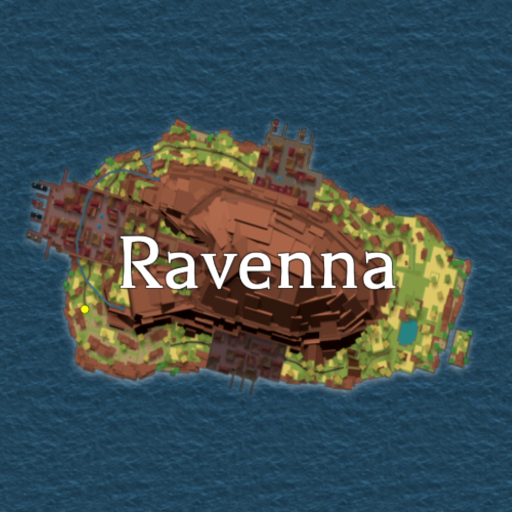
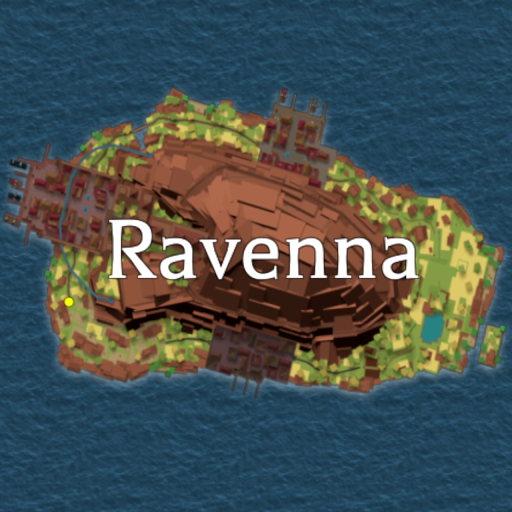
resized ravenna, add limestone, munera, palo

diff --git a/index.html b/index.html
@@ -60,7 +60,11 @@
 			let directionIndex = 0;
 			const distanceNames = ["Few paces", "Halfway", "Near sea"];
 			let distanceIndex = 1;
-			const islandNames = ["Frostmill Island", "Ravenna", "Forest of Cerunno", "Shell Island", "Harvest Island", "Whitesummit", "Thorin's Refuge", "Silverhold", "Wind-Row Island", "Akursius Keep"];
+			const islandNames = [
+				"Frostmill Island", "Ravenna", "Forest of Cerunno", "Shell Island",
+				"Harvest Island", "Whitesummit", "Munera Garden", "Wind-Row Island",
+				"Palo Town", "Thorin's Refuge", "Limestone Key", "Akursius Keep", "Silverhold"
+			];
 			let islandIndex = 0;
 
 			const RADIUS = 256;
@@ -162,9 +166,10 @@
 	<body onload="update()">
 		<h1>Arcane Odyssey Treasure Chart Locator</h1>
 		<p>
-			Note: use shovel about 2 rowboat lengths apart<br>
+			Use shovel about 2 rowboat lengths apart<br>
 			Zoom in (ctrl+ or ctrl scrollwheel) to enlarge the map<br>
 			This list does not include islands with one treasure<br>
+			Some maps may be slightly off center or too big/small<br>
 			To reduce lag when switching islands, download the website <a target="_blank" href="https://github.com/myaltaccountsthis/arcaneodysseytreasure/archive/refs/heads/master.zip">here</a>
 		</p>
 		<div>
